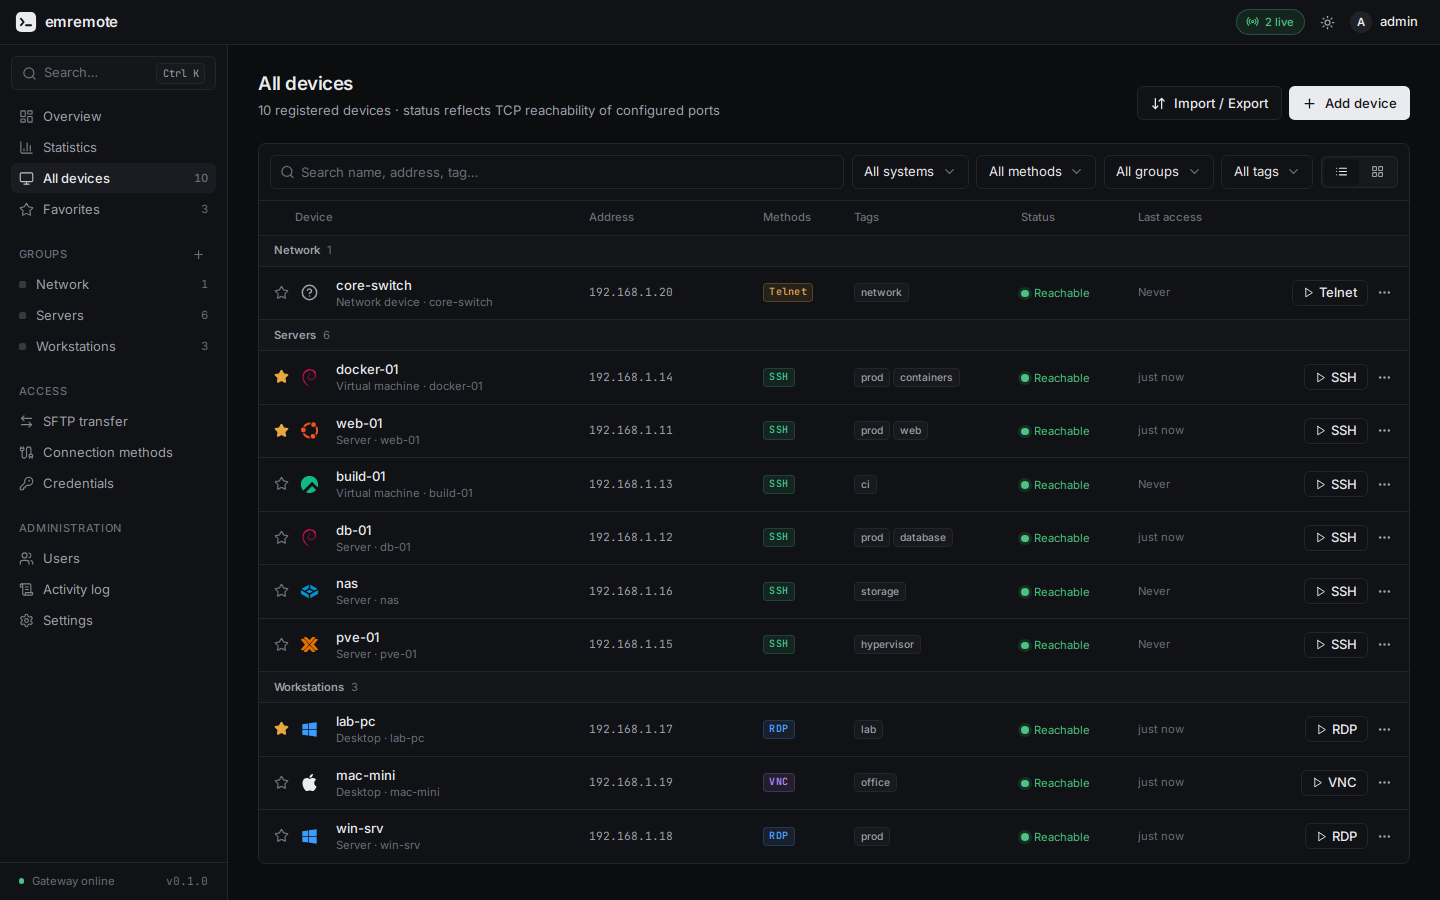
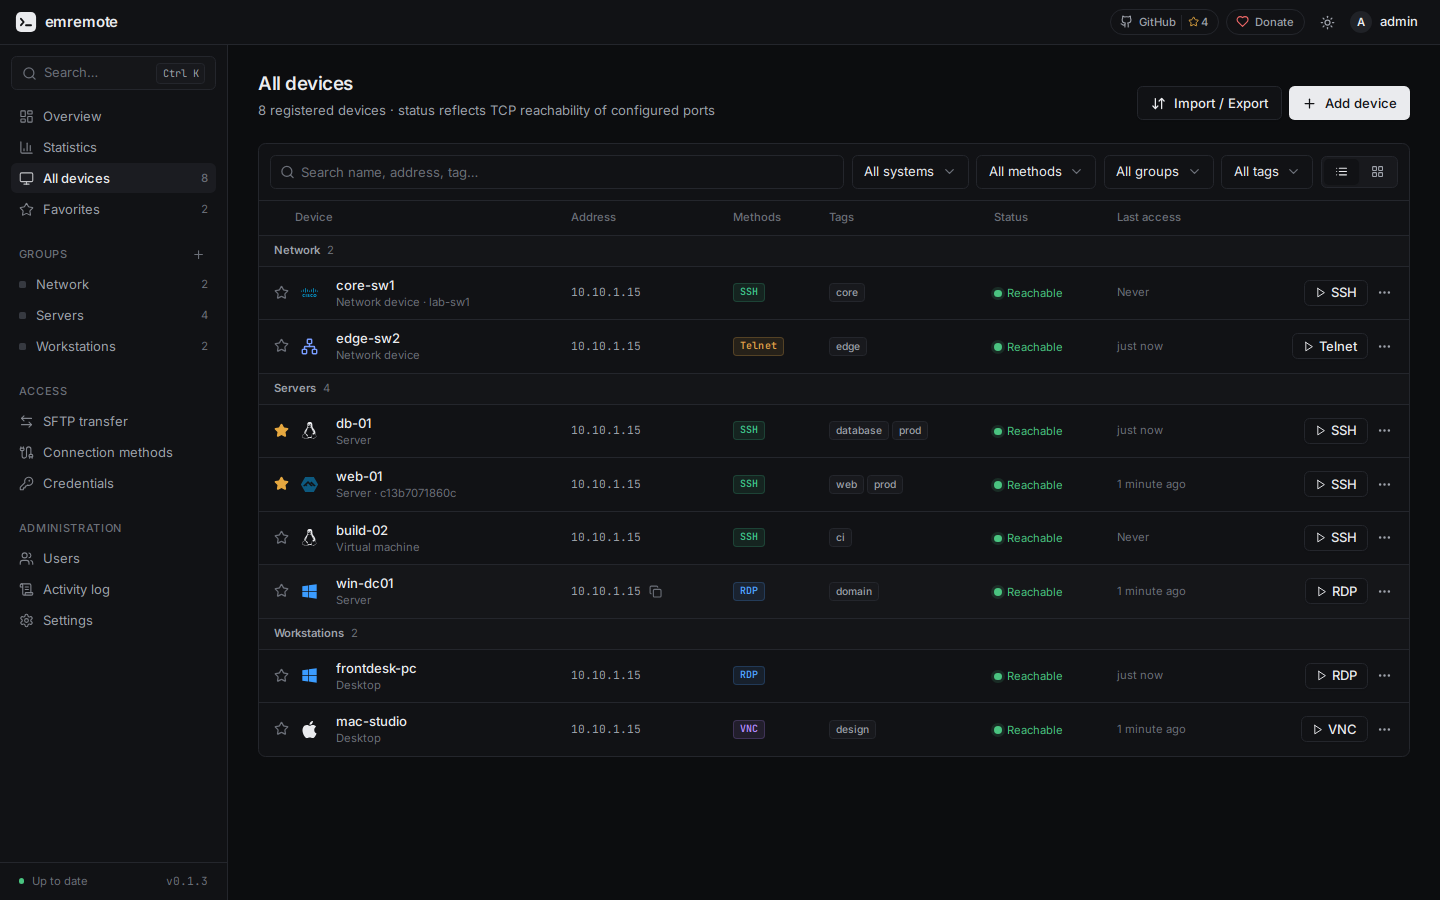
New installs start with Workstations, Servers and Network groups; refreshed screenshots and a script to make them

diff --git a/app/backend/internal/api/auth.go b/app/backend/internal/api/auth.go
@@ -217,6 +217,16 @@ func (s *Server) handleSetup(w http.ResponseWriter, r *http.Request) {
 	s.setupOpen = false
 	s.setupMu.Unlock()
 	s.markInitialized()
+	// A new installation starts with the usual shared groups; rename or delete them freely.
+	for _, g := range []struct{ name, desc string }{
+		{"Workstations", "Desktops and laptops"},
+		{"Servers", "Physical and virtual servers"},
+		{"Network", "Switches, routers and firewalls"},
+	} {
+		if _, err := s.store.CreateGroup(r.Context(), nil, g.name, g.desc); err != nil {
+			slog.Warn("could not create a default group", "group", g.name, "error", err)
+		}
+	}
 
 	ctx := context.WithValue(r.Context(), ctxUser, user)
 	r = r.WithContext(ctx)

diff --git a/docs/DEVELOPMENT.md b/docs/DEVELOPMENT.md
@@ -67,6 +67,7 @@ check and the frontend tests, and fails if any of them fail.
 | Frontend unit tests | Formatting, reachability semantics, status messages | `npm test` |
 | `tests/e2e/smoke.mjs` | over 220 checks against a running stack, including jump hosts (SSH, RDP and VNC sessions through a bastion, validation, policy, pinning through the tunnel), two-factor sign-in, import and export, snippets, terminal appearance, multi-user access (teams, member visibility, private inventories, 403/404 boundaries, saved passwords for members, access changes closing live sessions, password reset, disabling, deleting with and without keeping inventory),  server-to-server copies (byte-identical both ways, skip/overwrite, into-itself refusal, session binding), quick connections (live SSH and RDP sessions, nothing saved, policy, session binding), SFTP upload/download byte-equality, overwrite protection, rename, zip download, recursive delete, session binding, host-key enforcement, the system overview and audit coverage. Also covered: setup/login, CSRF, origin, rate limit, address validation, secrets never returned, RDP certificate rejection, pinning and downgrade prevention, SSH host key pinning and mismatch, reachability, **live SSH/VNC/RDP sessions streaming frames through guacd**, single-use tickets, SSRF refusals, foreign-origin WebSocket refusal, audit completeness and secret-freedom, cleanup | see header of the file |
 | `tests/e2e/browser.mjs` | Real Chromium via Playwright (90+ checks): the workspace (tabs, split panes, no keyboard cross-talk), jump host form and session, two-factor login, import dialog, snippets, terminal themes, the SFTP transfer page (copy between two servers), Quick connect from Overview, System and Files tabs (create folder, upload, delete), the SFTP panel in the SSH session window, UI sign-in, device form, RDP certificate pin flow, live RDP/SSH/VNC sessions rendering pixels, typing into the remote desktop, live resize, VNC scaling, HiDPI modes, disconnect state, console errors, screenshots | see header of the file |
+| `tests/e2e/screenshots.mjs` | Creates made-up devices on a throw-away test stack, uses them and takes the README screenshots into `docs/images`. Needs the test targets and `tests/targets/fakeswitch`. Never run it against a real installation | see header of the file |
 
 ### Test targets
 

diff --git a/README.md b/README.md
@@ -11,8 +11,9 @@ Open RDP, VNC, SSH and Telnet sessions in a browser tab, with no agent installed
 | | |
 |---|---|
 | ![Overview](docs/images/overview.png)<br>**Overview**: reachability, live sessions and recent activity | ![Devices](docs/images/devices.png)<br>**Devices**: groups, tags, search and one-click connect |
-| ![Device page](docs/images/device.png)<br>**Device page**: system, hardware and hypervisor read over SSH | ![Workspace](docs/images/workspace.png)<br>**Workspace**: sessions as tabs, one to four panes |
-| ![Statistics](docs/images/statistics.png)<br>**Statistics**: usage by day and hour, fleet and security | ![Terminal themes](docs/images/terminal-themes.png)<br>**Terminal themes** with a live preview |
+| ![Device page](docs/images/device.png)<br>**Switches and routers**: vendor, firmware, model and serial read over SSH | ![Workspace](docs/images/workspace.png)<br>**Workspace**: sessions as tabs, one to four panes |
+| ![Statistics](docs/images/statistics.png)<br>**Statistics**: usage by day and hour, fleet and security | ![Activity log](docs/images/activity.png)<br>**Activity log**: every sign-in, session and file transfer |
+| ![Switch health](docs/images/switch-system.png)<br>**Switch health**: CPU, memory, firmware and uptime | ![Terminal themes](docs/images/terminal-themes.png)<br>**Terminal themes** with a live preview |
 | ![Search](docs/images/search.png)<br>**Ctrl/⌘ K**: find devices and run quick actions | ![Sign-in](docs/images/login.png)<br>**Sign-in** as a terminal |
 
 ## Features

diff --git a/CHANGELOG.md b/CHANGELOG.md
@@ -8,6 +8,8 @@
   RouterOS, Huawei VRP and HPE/Aruba (ProCurve, AOS-CX) are recognised; other vendors still work for
   terminals. These devices have no Files tab. Checked with a simulated Cisco switch and sample output
   of the other vendors, not with real hardware of each brand.
+- A new installation starts with three shared groups: Workstations, Servers and Network. Existing
+  installations are not changed.
 - GitHub button with the star count in the top bar (next to Donate) and on the sign-in and setup screens.
 
 ## 0.1.3 (2026-10-15)
